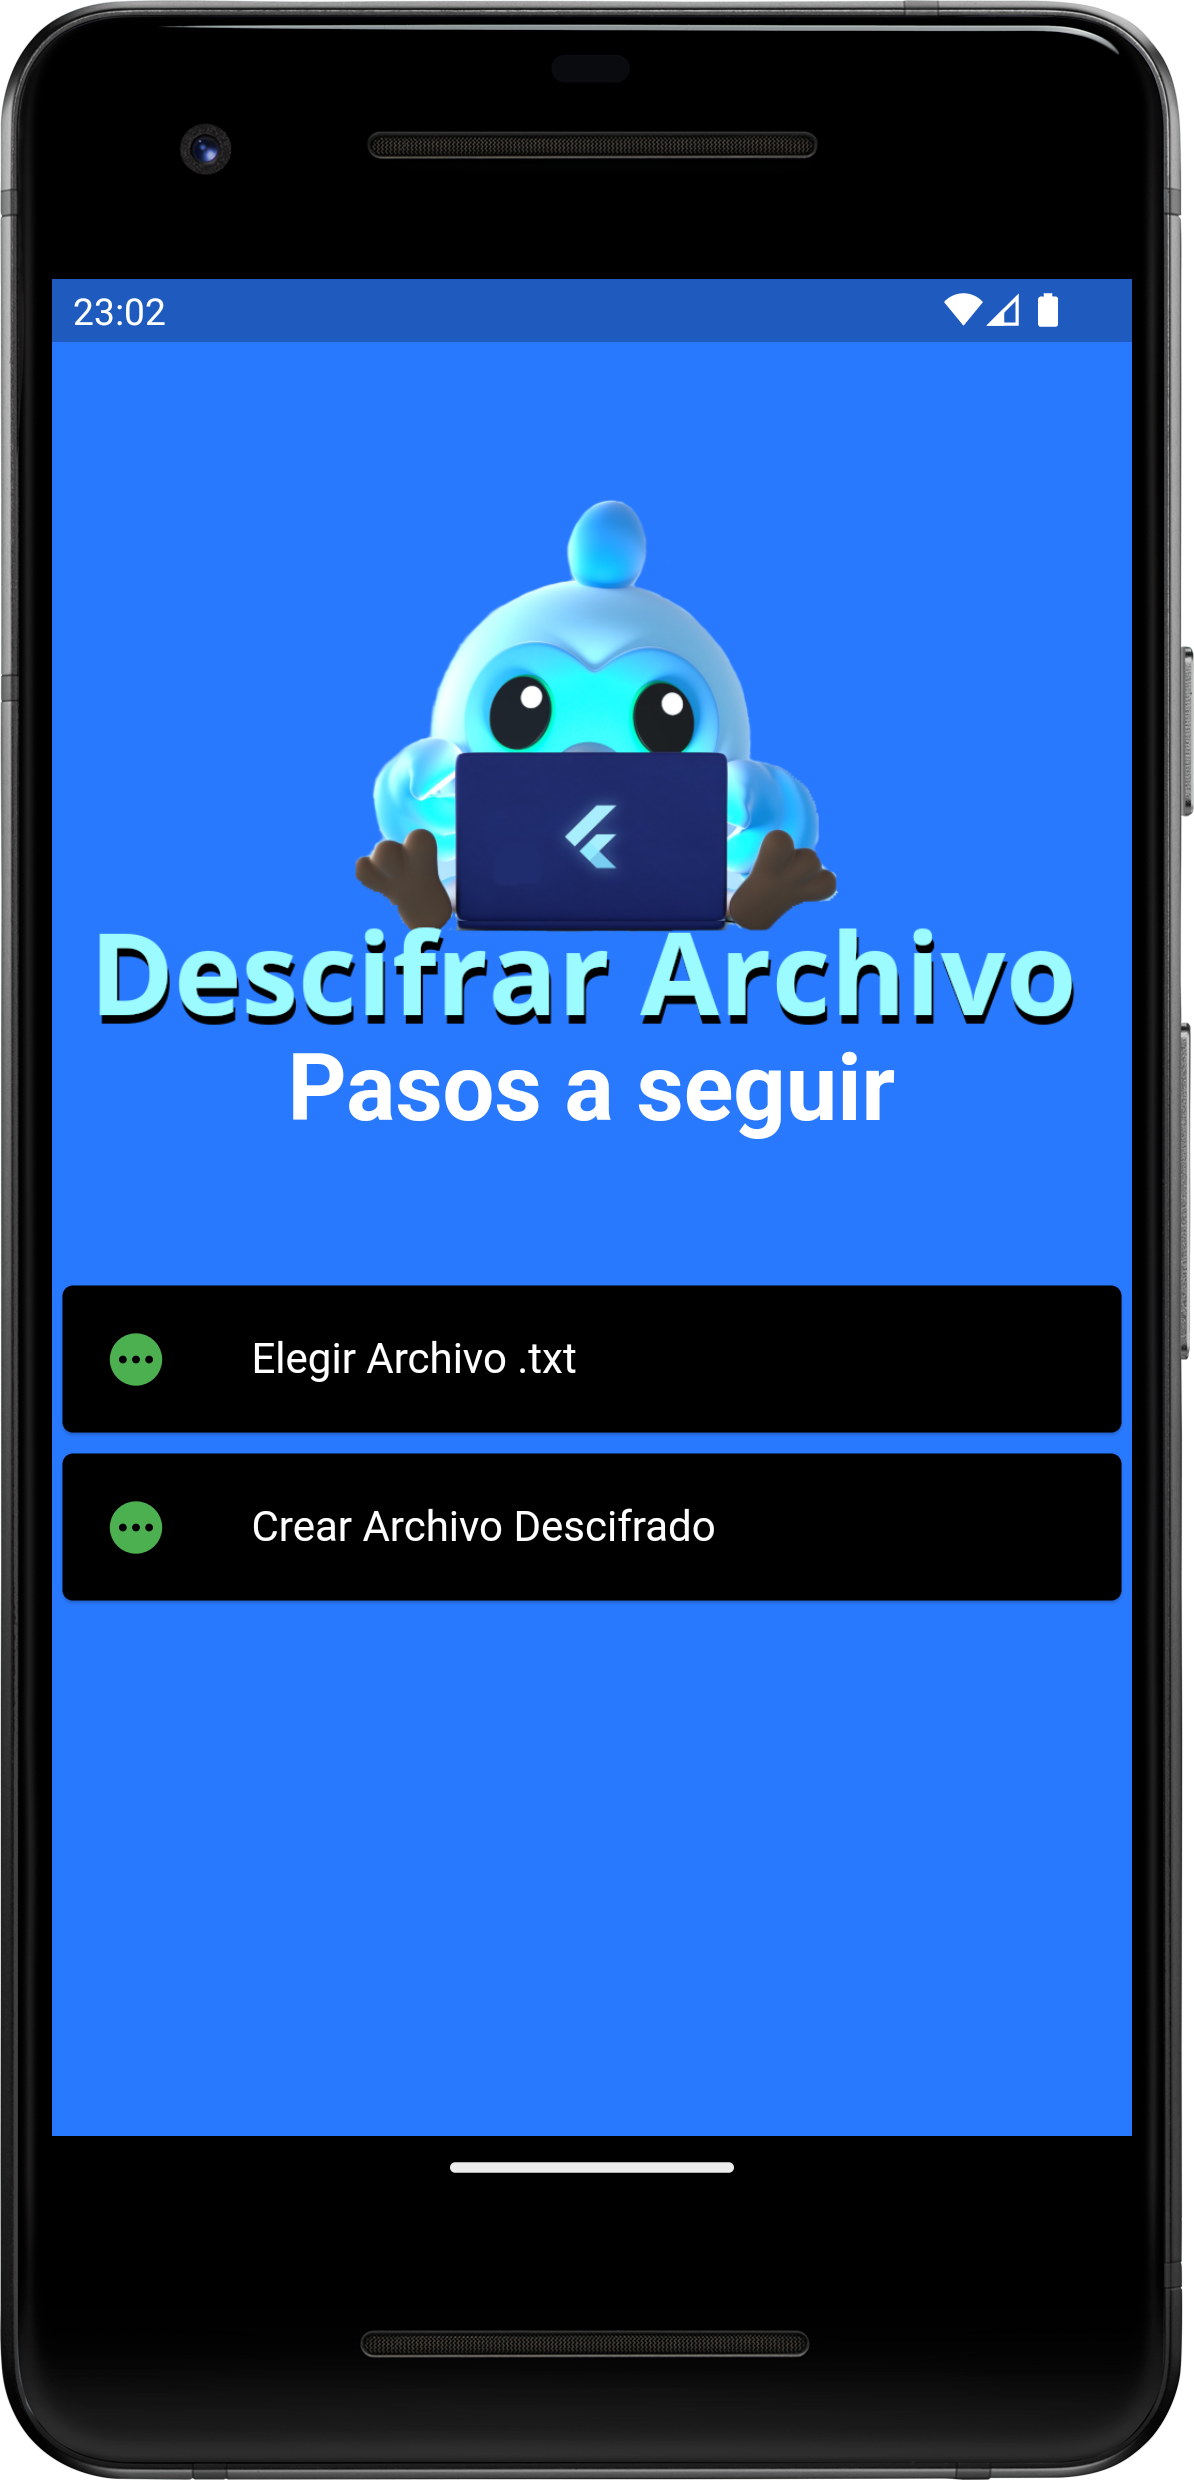
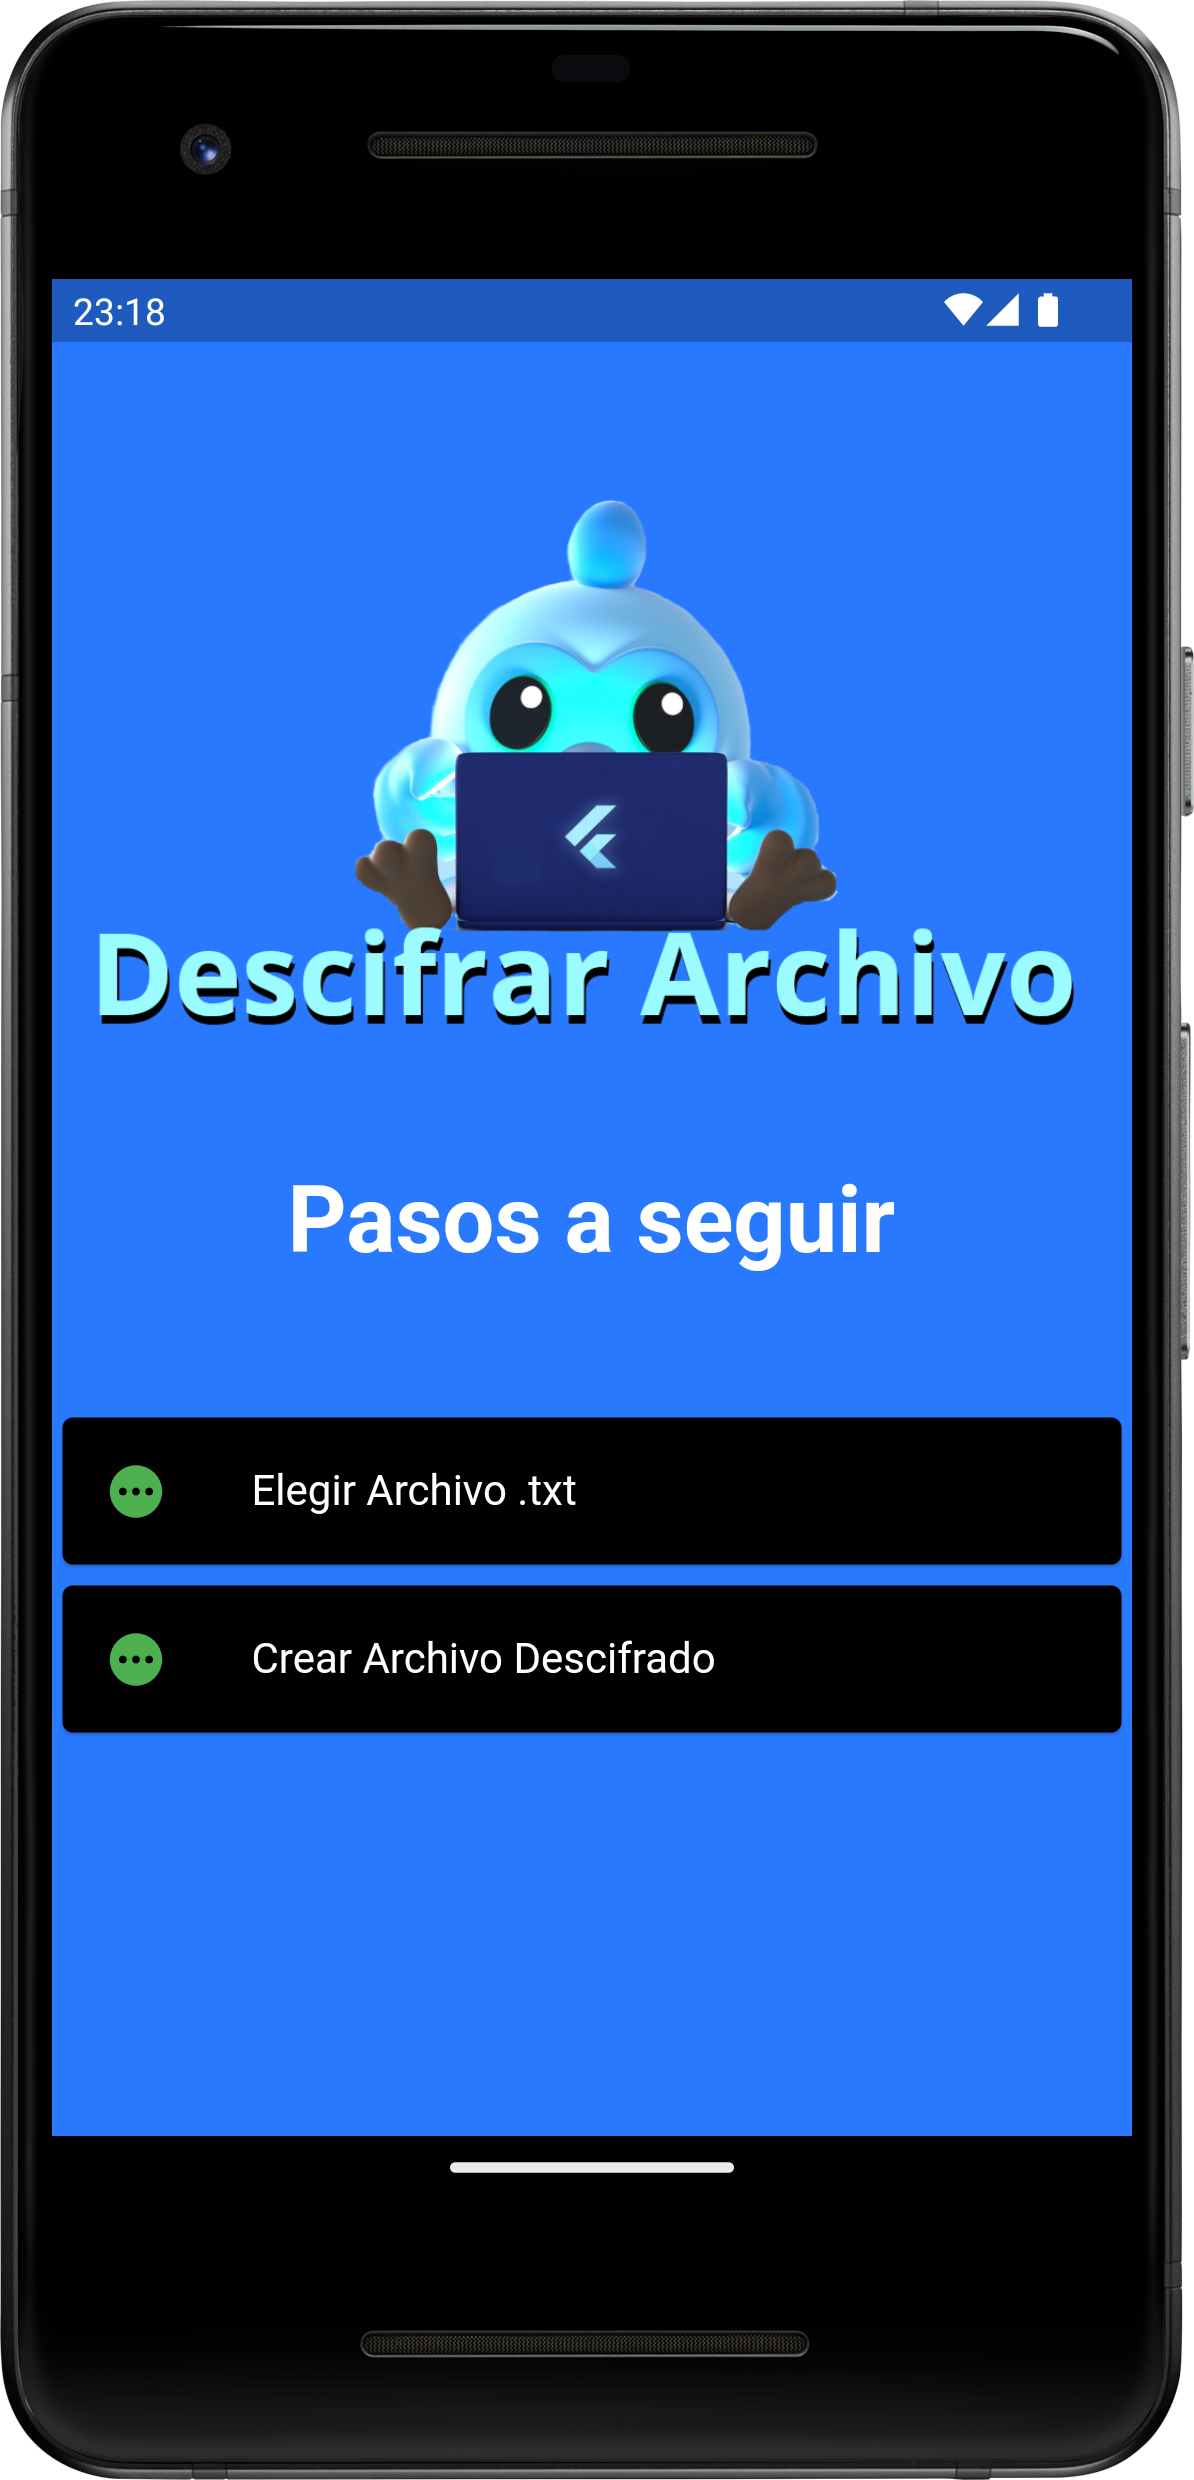
Bugfixes && force to complete task in order

Changed region(s): [[0.031, 0.4036, 0.9606, 0.7141]]

diff --git a/lib/Descifrar/descifrar.dart b/lib/Descifrar/descifrar.dart
@@ -179,6 +179,8 @@ class DescifrarState extends State<Descifrar>{
           // Banner
           Image.asset("assets/icon/banner_desencriptar.png"),
 
+          SizedBox(height: 50,),
+
           // Title
           Text("Pasos a seguir", style: TextStyle(color: Colors.white, fontWeight: FontWeight.bold, fontSize: 35),),
 
@@ -195,7 +197,7 @@ class DescifrarState extends State<Descifrar>{
                             chooseFile(index);
                           }
 
-                          else if (index == 1 && pasosState[index] == false){
+                          else if (index == 1 && pasosState[index] == false && pasosState[0] == true){
                             exportEncryptedFileDialog(context, index);
                           }
 

diff --git a/lib/Cifrar/cifrar.dart b/lib/Cifrar/cifrar.dart
@@ -197,7 +197,7 @@ class CifrarState extends State<Cifrar>{
                         chooseFile(index);
                       }
 
-                      else if (index == 1 && pasosState[index] == false){
+                      else if (index == 1 && pasosState[index] == false && pasosState[0] == true){
                         exportEncryptedFileDialog(context, index);
                       }
 
